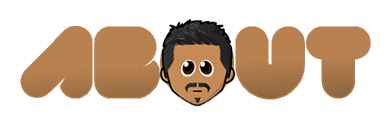
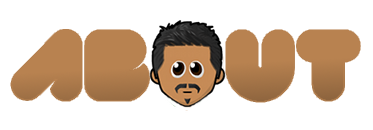
new links bar and colour intro added --incomplete

diff --git a/app/assets/stylesheets/application.css b/app/assets/stylesheets/application.css
@@ -82,6 +82,7 @@
 
 .mobile_link  {
     position: relative;
+    z-index: 1;
 }
 
 .mobile_link img {
@@ -91,11 +92,13 @@
 }
 
 .header {
-    width: 100%;
-    padding: 10px 0px 10px 0px;
+    width: 1050px;
     margin: 10px 0px 10px 0px;
     text-align: center; 
     font-size: 250%;
+    padding: 20px;
+    display: inline-block;
+    z-index: -1;
 }
 
 .contact {
@@ -129,35 +132,49 @@
     text-decoration: none;
 }
 
-.links {
-    min-width: 90%;
-    height: 100%;
-    padding: 20px 0px 70px 0px;
-    margin: 10px auto;
-    font-size: 150%;
-    overflow: auto;
-}
-
-.links ul li {
+#logo {
+    height:36px; 
+    width:400px; 
     float: left;
-    width: 15em;
-    padding-top: 10px;
-    padding-bottom: 20px;
-    text-align: center;
-}
-
-.links ul li img { 
-    display: inline;
     -webkit-transition: all 0.5s ease; 
     -moz-transition: all 0.5s ease; 
     -o-transition: all 0.5s ease; /*Reflection*/ 
+    opacity: 0.8;
+}
+
+#logo:hover {
+    opacity: 1;
+}
+
+.links {
+    float: left;
+}
+
+.links ul {
+    float: left;
+}
+
+.links ul li {
+    display: inline-block;
+    -webkit-transition: all 0.5s ease; 
+    -moz-transition: all 0.5s ease; 
+    -o-transition: all 0.5s ease; /*Reflection*/ 
+    opacity: 0.8;
+     -moz-border-radius: 5px;
+    -webkit-border-radius: 5px;
+    -khtml-border-radius: 5px;
+    border-radius: 5px;
+    height: 36px;
+    margin-right: 10px;
+}
+
+.links ul li:hover { 
+    opacity: 1; /*Reflection*/ 
+    cursor: pointer;
 } 
 
-.links ul li img:hover { 
-    opacity: 1; /*Reflection*/ 
-    -webkit-box-reflect: below 0px -webkit-gradient(linear, left top, left bottom, from(transparent), color-stop(.7, transparent), to(rgba(0,0,0,0.4))); /*Glow*/ 
-
-    cursor: pointer;
+.links ul li img {
+    height: 36px;
 }
 
 .unselected {
@@ -167,7 +184,6 @@
 
 .selected {
     opacity: 1; /*Reflection*/ 
-    -webkit-box-reflect: below 0px -webkit-gradient(linear, left top, left bottom, from(transparent), color-stop(.7, transparent), to(rgba(0,0,0,0.4))); /*Glow*/ 
 }
 
 .intro {
@@ -203,6 +219,17 @@
     opacity: 1; 
     -webkit-box-reflect: below 0px -webkit-gradient(linear, left top, left bottom, from(transparent), color-stop(.7, transparent), to(rgba(0,0,0,0.4))); 
     cursor: pointer;
+}
+
+.left {
+    float: left;
+    -webkit-transition: all 0.5s ease; 
+    -moz-transition: all 0.5s ease; 
+    -o-transition: all 0.5s ease;    
+}
+
+.right {
+    float: left;
 }
 
 .content {
